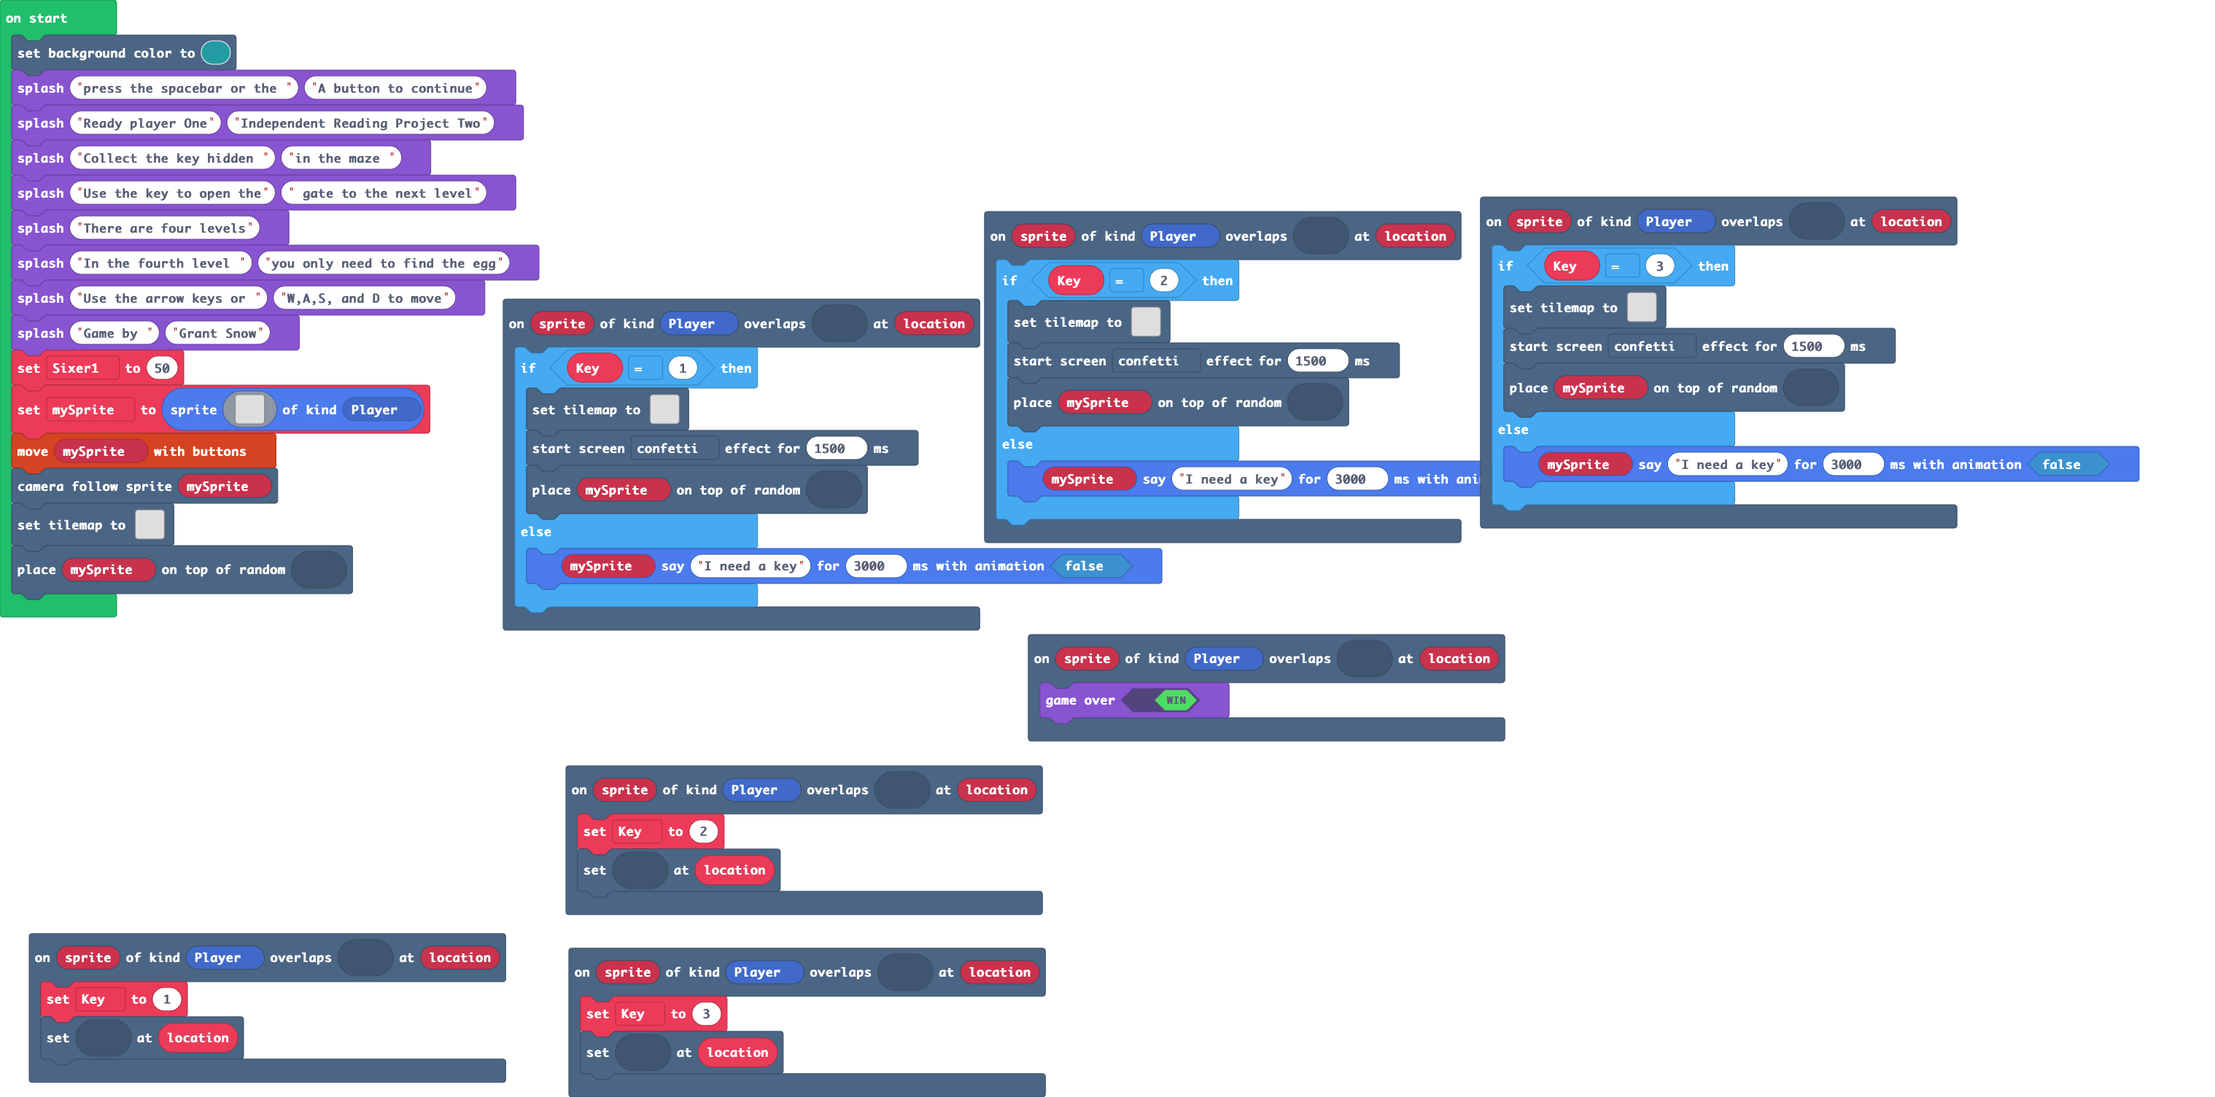
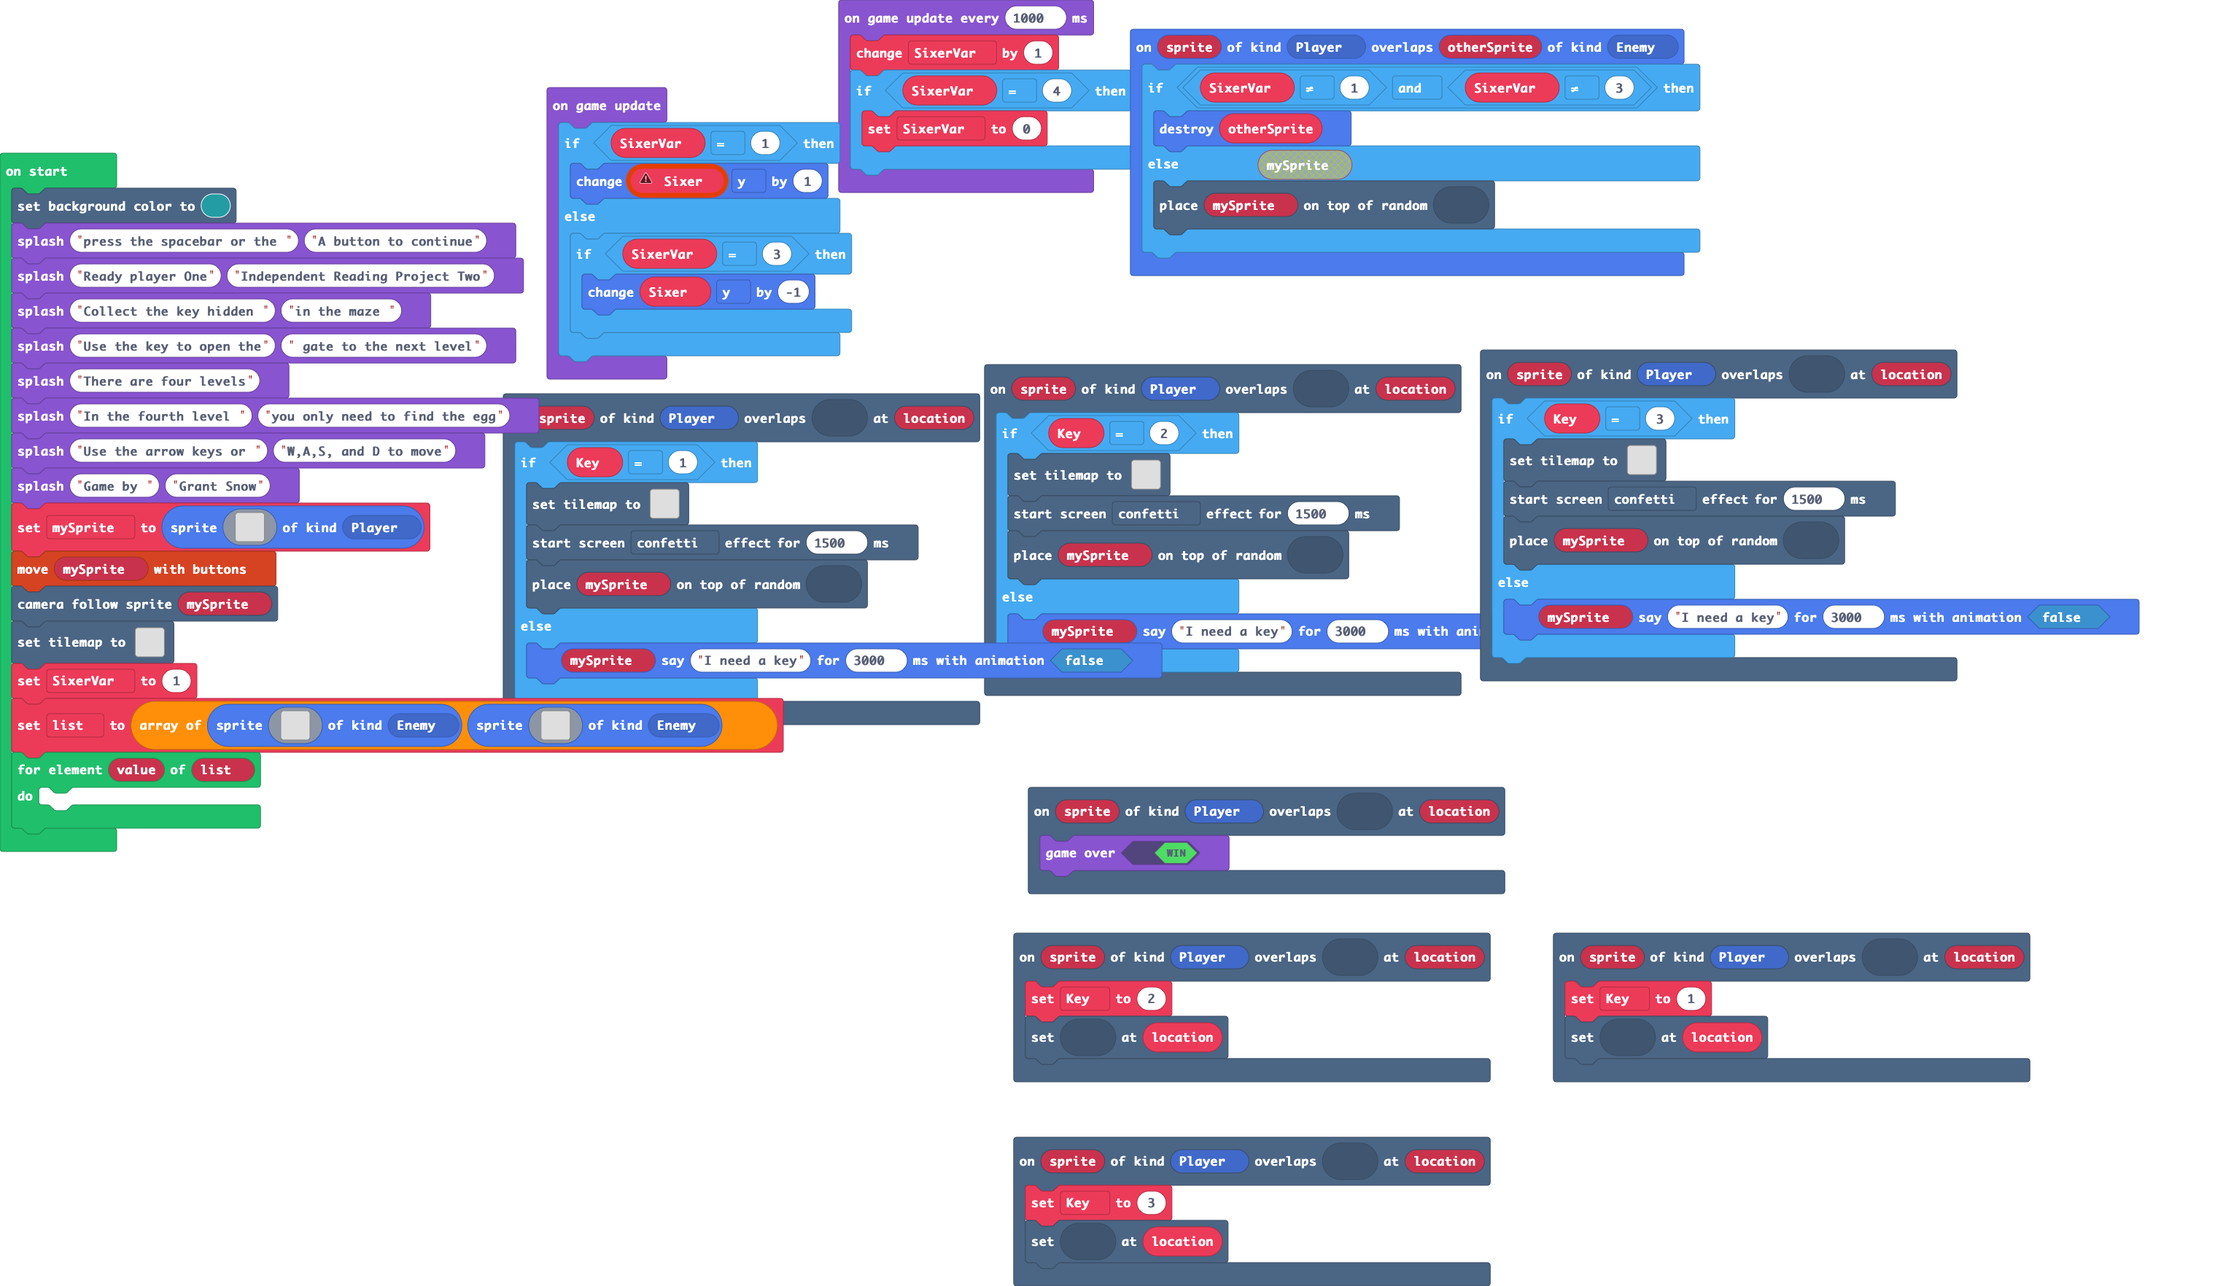
Update main.blocks, main.ts, tilemap.g.jres, tilemap.g.ts

diff --git a/tilemap.g.ts b/tilemap.g.ts
@@ -92,44 +92,6 @@ namespace myTiles {
 . . . . . . . . . . . . . . . . 
 . . . . . . . . . . . . . . . . 
 `, [myTiles.transparency16,sprites.castle.tileGrass2], TileScale.Sixteen);
-            case "level5":
-            case "level5":return tiles.createTilemap(hex`2300230001010101010101010101010101010101010101010101010101010101010101010101010101020202020202020202020202020202020202020202010202020202020202050101010102010101010101010101010101010101020102010201020101010101010101010101010202020202020201010201010101010202010201020102020202020201020202010101020101010101010101020102020201010101020102010201010101010102010201010102020202020202010102010203020202020202010201020101020202020201020101010101010101010202020201020202010101010101020102010102010101020102010101020202020101020101010101010101020202020202010201010201020102010201010102010102010102020202020202010101010101010101020101020102010201020101010201010201010201020101010201010202020202020202010102010201020102010101020202020101020102020201020101020101010101010101010201020102010201010101010102010102010101010101010102010202010202020202020102010201020101010202020202020201010202020202020201010201020102010101010201020101010101020101010101020101020101010101010101020102010202020202020102010101010102010102010102010102010101010101010102010201010101010101010201020101010201010201010201010202020202020201010201020202020202020101020102010101020101020202020101010101010101020101020102010101010102010102010201010102010101010101010202020202020202020202020202020202010201010201020101010201010101010101010101010101010201010101010101010101020101020102010101020202020202020202020202020202020202020202020202020202010102010201010102010101010101010101010101010101010101010101010101010101010201020101010202020202020202020202020201010101010101010101010101010101020102010101010101010101010101010101020101020202020202020202020202020202020201010201010101010101010101010102010102010101010101010101010101010101010101020102020202020202020202010201010201020202020202020202020202020202010102010201010101010101010201020101020102010101010101010101010101010101010201020102020202020201020102010102020202020202020202020202020101020101020102010101020101020102010201010101010101010101010101010102010202010102010202020202010202010201010101020202020202020202020202020201010201010201010101010201010101020101010101010101010101010101010101020101020101020202020201020101020202020202020202020202020202020202020202020202010101020101020102010102010101010101010101010101010101010101010201010101010102010102020201010202020202020202020202020202020101020202020202020101010201010101040101010101010101010101010101010101010101010101010101010101010101010101010101010101010101010101010101010101010101010101010101`, img`
-22222222222222222222222222222222222
-22.....................2.........22
-22.222222222222222.2.2.2.2222222222
-22.......22.22222..2.2.2......2...2
-22.22222222.2...2222.2.2.222222.2.2
-22.......22.2........2.2.22.....2.2
-22222222....2...222222.2.22.222.2.2
-22....22.22222222......2.22.2.2.2.2
-22.22.22.......222222222.22.2.2.2.2
-22.22.22.2.222.22........22.2.2.2.2
-22....22.2...2.22.222222222.2.2.2.2
-22222.22.22222222.2..2......2.2.2.2
-22.......22.......22.2.2.2222.2.222
-22.22222.22.22222222.2.2......2.222
-22.22.22.22.22222222.2.22222222.2.2
-22.22.22.22.......22.2.......22.2.2
-22.22....22222222.22.2.22222.22.2.2
-22.2222222.................2.22.2.2
-22.22222222222222.2222222222.22.2.2
-22...........................22.2.2
-22.2222222222222222222222222222.2.2
-22.............2222222222222222.2.2
-22222222222222.22.................2
-2.222222222222.22.22222222222222222
-2.2..........2.22.2...............2
-2.2.22222222.2.22.2.222222222222222
-2.2.2......2.2.22..............22.2
-2.2.222.22.2.2.222222222222222.2..2
-2.2.....2..2.2222..............22.2
-2.22222.2222.22222222222222222.22.2
-2.....2.22........................2
-22.22.2.22.2222222222222222222.2222
-22.22...22...............22.......2
-22.2222.222222222222222222222222222
-22222222222222222222222222222222222
-`, [myTiles.transparency16,myTiles.tile1,myTiles.tile2,myTiles.tile7,myTiles.tile4,myTiles.tile12], TileScale.Sixteen);
             case "level1":
             case "level1":return tiles.createTilemap(hex`3200320001010101010101010101010101010101010101010101010101010101010101010101010101010101010101010101010101010101020101050101010101010101010101010101010101010101010101010101010101010101010101010101010101010101010102010102010101010101010101010101010101010101010101010101010101010101010101010101010101010101010101010201010202020202020202020202020202020202020202020202020202020202020202020202020202020202020101010101020101010101010101010101010201010101010101010101010101010101010101010101010101010101010102020201010102020202020202020202020202020101010102020202020202020202020202020202020202020202020101010201020101010101010101010101010101010101010101010101010101010101010101010101010101010101010102010101020102010101020202020202020202020202020202020202020202020202020202020202020202020201010101010201020102010201010102010101010101010101010201010101010101010101010101010101010101010101020101010101020102010201020101010201020101020202020101020101010101010101010101010101010101010101010102010101010102010201020102010101020102010102010102010102010202020202020202020202020202020202020202020202020202020201020102010201010102010201010201010201010201020101010101010101010101010101010101010101010101010101010102010201020101010201020101020101020101020102010101020202020202020202020202020202020202020202020202020201020102010101020102020202010102010102010201010102010101010101010101010101010101010101010101010101010102010201010102010201010201010201010201020101020202020202020202020202020202020202020202020202020202010201020101010201020101020101020101020102010102010101010101010101010101010101010101010101010101010201020102010101020102010102010102010102010201010201010102020202020202020202020202020202020202020201020102010201010102010101010201010201010201020101020101010201010101010101010101010101010101010101010102010201020101010202020202020101020101020102010102010102020202020202020202020202020202020202020201010201020102010101010101010102010102010102010201010201010201010101010201010101010101010101010101020101020102010201010101010101010201010201010201020101020101020102020201020102010102020202020202010102010102010201020101020202020202020101020101020102010102010102010201020102010201010201010101010201010201010201020102010101010101010101010102010102010201010201010201020102010201020101020102020202020101020101020102010201010202020202020202020201010201020101020101020102010201020102020202010201010102020202010102010201020101020102010101010101010101020102020202010102010201020102010201010201020202010101010101010201020102010102010201020202020202020202010101010201010201020102010201020101020101010101010101010101020102010201010201020101010101010101010101020202020201020102010202020102010102020202020202020202010102010201020101020102010101010101010101010101010101010102010201010101010201010101010101010101010201010201020102010102010202020202020202020202020202020202020201020202020201020202020202020202020101020101020102010201010201020101010101010101010101010101010101010101010204020102010101010101010101010102010102010201020101020102010102020202020202020202020202020202020201020202010201010202020202020202010201010201020102010102010201010201010101010101010101010101010101020101010101010101020101010101010101020101020102010201010201020101020101020101010101010101010101010102010102020202020202010101010101010102010102010201020101020102010102010102010101020202020202020202020201010101010101010201020202020202020201010201020102010102010201010201010201010102010201010101010101010102020202020201020102010101010101020101020102010201010201020101020101020101010201020202020202020202010201010101020102010202020202020102010102010201020101020102010102010102010101020101010101010101010101020101020102010201010101010101010201010201020102010102010202020202020202020202010101010101010101010102010102010201020101020202020202020101020102010201010101010101010101010101010101020202020202020202020201010201020102010102010101010101010102010201020101010202020202020202020202020102010101010101010101010101020102010201010201010101010101010201020102010101020101010101010101010101010201010202020202020202020202010201020101020202020202020201020102010201010102010202020202020202020101020101010101010101010101010201020102010101010101010101020102020201020101010201020102010101010102010102010101020202020202020101020102010201010101010101010102010102010102010101020102010201010101010201010201010102010101010102010102010201020102020202020202010201010201010201010102010201020101010101020202020101010201010101010201010201020102010201010101010101020101020101020101010202020102020202020101010101010101020202020101020202020102020202020202020202020202010102010102010101010102010101010101010101010101010101010102010102010101010101010101010101010101010101010101010201010101010202020202020202020202020202020202020201010201010102020202020202020202020202020202020202020101010101010101010101010101010101010101010101010101030101010101010101010101010101010101010101010101010101010101010101010101010101010101010101010101010101010101010101010101010101010101010101010101010101`, img`
 22222222222222222222222222222222222222222222222222
@@ -508,7 +470,7 @@ namespace myTiles {
 . . . . . . . . . . . . . . . . 
 `, [myTiles.transparency16], TileScale.Sixteen);
             case "level4":
-            case "level4":return tiles.createTilemap(hex`1400140001010101010101010101010101010101010101010101010101010205020104010101010101010101010202020202020202010201010102020202010101020101010101010101020102020201010201010102010202020202020202010201020101020101010201020101010101010101010102010102010101020102020202020202020201010201010201010102010201010101010101010101020101020101010201020202020202020202020202010102010101020101010101010101010101010201010201010102020202020202020202020202020101020101010101010101010101010101010101010102010101020202020202020202020202020201010201010102010101010101010101010101020101020101010201020202020202020202020102010102010101020102010101010101010101010201010201010102010202020202020202020202020101020101010201020101010101010101010101010102010101030102020202020202020202020202020201010101010101010101010101010101010101010101`, img`
+            case "level4":return tiles.createTilemap(hex`1400140001010101010101010101010101010101010101010101010101010205020104010101010101010101010202020202020202010201010102020202010101020101010101010101020102020201010201010102010202020202020202010201020101020101010201020101010101010101010102010102010101060102020202020202020201010201010201010102010201010101010101010101020101020101010201020202020202020202020202010102010101020101010101010101010101010201010201010102020202020202020202020202020101020101010101010101010101010101010101010102010101020202020202020202020202020201010201010102010101010101010101010101020101020101010201020202020202020202020102010102010101020102010101010101010101010201010201010102010202020202020202020202020101020101010201020101010101010101010101010102010101030102020202020202020202020202020201010101010101010101010101010101010101010101`, img`
 22222222222222222222
 222222...2.222222222
 2........2.222....22
@@ -529,7 +491,45 @@ namespace myTiles {
 2.2.2222222222222.22
 2.2...............22
 22222222222222222222
-`, [myTiles.transparency16,myTiles.tile1,myTiles.tile2,myTiles.tile4,myTiles.tile8,myTiles.tile10], TileScale.Sixteen);
+`, [myTiles.transparency16,myTiles.tile1,myTiles.tile2,myTiles.tile4,myTiles.tile8,myTiles.tile10,myTiles.tile15], TileScale.Sixteen);
+            case "level5":
+            case "level5":return tiles.createTilemap(hex`2300230001010101010101010101010101010101010101010101010101010101010101010101010101020202020202020202020202020202020202020202010202020202020202050101010102010101010101010101010101010101020102010201020101010101010101010101010202020202020201010201010101010202010201020102020202020201020202010101020101010101010101020102020201010101020102010201010101010102010201010106020202020202010102010203020202020202010201020101020202020201020101010101010101010202020201020202010101010101020102010102010101020102010101020202020101020101010101010101020202020202010201010201020102010201010102010102010102020202020202010101010101010101020101020102010201020101010201010201010201020101010201010202020202020202010102010201020102010101020202020101020102020201020101020101010101010101010201020102010201010101010102010102010101010101010102010202010202020202020102010201020101010202020202020201010202020202020201010201020102010101010201060101010101020101010101020101020101010101010101020102010202020202020102010101010102010102010102010102010101010101010102010201010101010101010201020101010201010201010201010202020202020201010201020202020202020101020102010101060101020202020101010101010101020101020102010101010102010102010201010102010101010101010202020202020202020202020202020202010201010201020101010201010101010101010101010101010201010101010101010101020101020102010101020202020202020202020202020202020202020202020202020202010102010201010102010101010101010101010101010101010101010101010101010101010201020101010202020202020202020202020201010101010101010101010101010101020102010101010101010101010101010101020101020202020202020202020202020202020201010201010101010101010101010102010102010101010101010101010101010101010101020102020202020202020202010201010201020202020202020202020202020202010102010201010101010101010201020101020102010101010101010101010101010101010201020102020202020201020102010102020202020202020202020202020101020101020102010101020101020102010201010101010101010101010101010102010202010102010202020202010202010201010101020202020202020202020202020201010201010201010101010201010101020101010101010101010101010101010101020101020101020202020201020101020202020202020202020202020202020202020202020202010101020101020102010102010101010101010101010101010101010101010201010101010102010102020201010202020202020202020202020202020101020202020202020101010201010101040101010101010101010101010101010101010101010101010101010101010101010101010101010101010101010101010101010101010101010101010101`, img`
+22222222222222222222222222222222222
+22.....................2.........22
+22.222222222222222.2.2.2.2222222222
+22.......22.22222..2.2.2......2...2
+22.22222222.2...2222.2.2.222222.2.2
+22.......22.2........2.2.22.....2.2
+22222222....2...222222.2.22.222.2.2
+22....22.22222222......2.22.2.2.2.2
+22.22.22.......222222222.22.2.2.2.2
+22.22.22.2.222.22........22.2.2.2.2
+22....22.2...2.22.222222222.2.2.2.2
+22222.22.22222222.2..2......2.2.2.2
+22.......22.......22.2.2.2222.2.222
+22.22222.22.22222222.2.2......2.222
+22.22.22.22.22222222.2.22222222.2.2
+22.22.22.22.......22.2.......22.2.2
+22.22....22222222.22.2.22222.22.2.2
+22.2222222.................2.22.2.2
+22.22222222222222.2222222222.22.2.2
+22...........................22.2.2
+22.2222222222222222222222222222.2.2
+22.............2222222222222222.2.2
+22222222222222.22.................2
+2.222222222222.22.22222222222222222
+2.2..........2.22.2...............2
+2.2.22222222.2.22.2.222222222222222
+2.2.2......2.2.22..............22.2
+2.2.222.22.2.2.222222222222222.2..2
+2.2.....2..2.2222..............22.2
+2.22222.2222.22222222222222222.22.2
+2.....2.22........................2
+22.22.2.22.2222222222222222222.2222
+22.22...22...............22.......2
+22.2222.222222222222222222222222222
+22222222222222222222222222222222222
+`, [myTiles.transparency16,myTiles.tile1,myTiles.tile2,myTiles.tile7,myTiles.tile4,myTiles.tile12,myTiles.tile15], TileScale.Sixteen);
         }
         return null;
     })

diff --git a/main.ts b/main.ts
@@ -40,7 +40,15 @@ scene.onOverlapTile(SpriteKind.Player, assets.tile`myTile10`, function (sprite, 
 scene.onOverlapTile(SpriteKind.Player, assets.tile`myTile11`, function (sprite, location) {
     game.over(true)
 })
+sprites.onOverlap(SpriteKind.Player, SpriteKind.Enemy, function (sprite, otherSprite) {
+    if (SixerVar != 1 && SixerVar != 3) {
+        otherSprite.destroy()
+    } else {
+        tiles.placeOnRandomTile(mySprite, assets.tile`myTile2`)
+    }
+})
 let Key = 0
+let SixerVar = 0
 let mySprite: Sprite = null
 scene.setBackgroundColor(6)
 game.splash("press the spacebar or the ", "A button to continue")
@@ -51,7 +59,6 @@ game.splash("There are four levels")
 game.splash("In the fourth level ", "you only need to find the egg")
 game.splash("Use the arrow keys or ", "W,A,S, and D to move")
 game.splash("Game by ", "Grant Snow")
-let Sixer1 = 50
 mySprite = sprites.create(img`
     . . . . . . . . . . . . . . . . 
     . . . . . . . . . . . . . . . . 
@@ -73,4 +80,58 @@ mySprite = sprites.create(img`
 controller.moveSprite(mySprite)
 scene.cameraFollowSprite(mySprite)
 tiles.setTilemap(tilemap`level4`)
-tiles.placeOnRandomTile(mySprite, assets.tile`myTile2`)
+SixerVar = 1
+let list = [sprites.create(img`
+    . . . . . . . . . . . . . . . . 
+    . . . . . . . . . . . . . . . . 
+    . . . . . . . . . . . . . . . . 
+    . . . . . . . . . . . . . . . . 
+    . . . . . . . . . . . . . . . . 
+    . . . . . . 8 8 8 8 . . . . . . 
+    . . . . . 8 8 1 1 8 8 . . . . . 
+    . . . . . 8 8 1 8 8 8 . . . . . 
+    . . . . . 8 8 1 1 8 8 . . . . . 
+    . . . . . 8 8 1 1 8 8 . . . . . 
+    . . . . . . 8 8 8 8 . . . . . . 
+    . . . . . . . . . . . . . . . . 
+    . . . . . . . . . . . . . . . . 
+    . . . . . . . . . . . . . . . . 
+    . . . . . . . . . . . . . . . . 
+    . . . . . . . . . . . . . . . . 
+    `, SpriteKind.Enemy), sprites.create(img`
+    . . . . . . . . . . . . . . . . 
+    . . . . . . . . . . . . . . . . 
+    . . . . . . . . . . . . . . . . 
+    . . . . . . . . . . . . . . . . 
+    . . . . . . . . . . . . . . . . 
+    . . . . . . 8 8 8 8 . . . . . . 
+    . . . . . 8 8 1 1 8 8 . . . . . 
+    . . . . . 8 8 1 8 8 8 . . . . . 
+    . . . . . 8 8 1 1 8 8 . . . . . 
+    . . . . . 8 8 1 1 8 8 . . . . . 
+    . . . . . . 8 8 8 8 . . . . . . 
+    . . . . . . . . . . . . . . . . 
+    . . . . . . . . . . . . . . . . 
+    . . . . . . . . . . . . . . . . 
+    . . . . . . . . . . . . . . . . 
+    . . . . . . . . . . . . . . . . 
+    `, SpriteKind.Enemy)]
+for (let value of list) {
+	
+}
+game.onUpdate(function () {
+    let Sixer: Sprite = null
+    if (SixerVar == 1) {
+        Sixer.y += 1
+    } else {
+        if (SixerVar == 3) {
+            Sixer.y += -1
+        }
+    }
+})
+game.onUpdateInterval(1000, function () {
+    SixerVar += 1
+    if (SixerVar == 4) {
+        SixerVar = 0
+    }
+})
